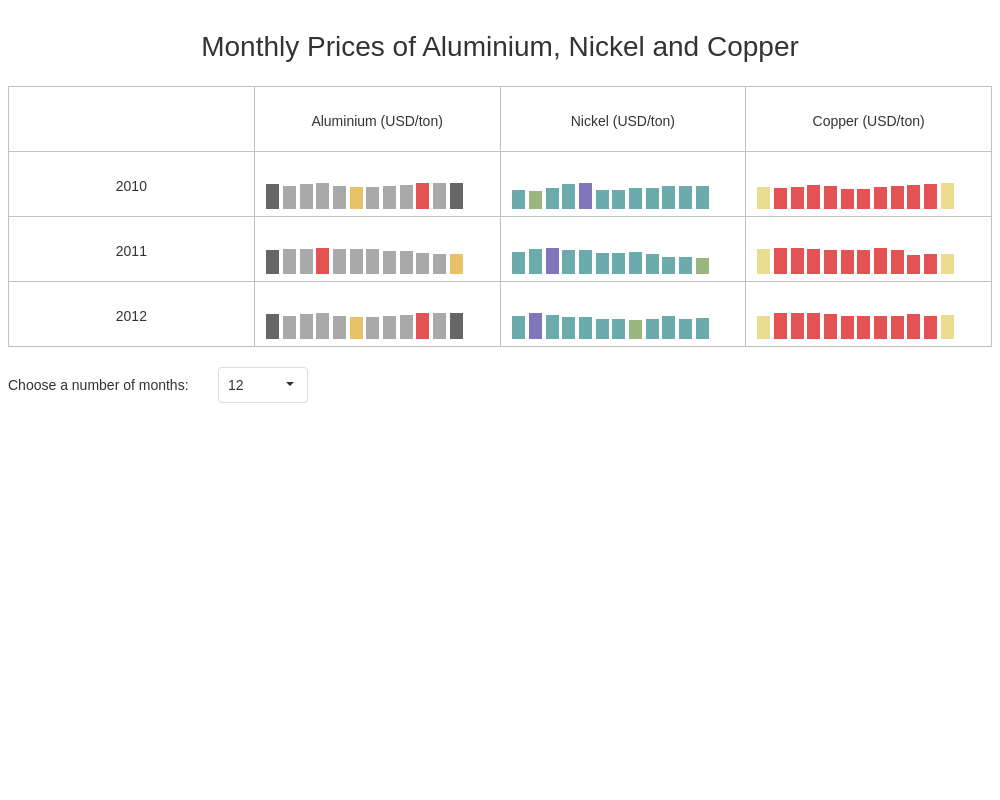
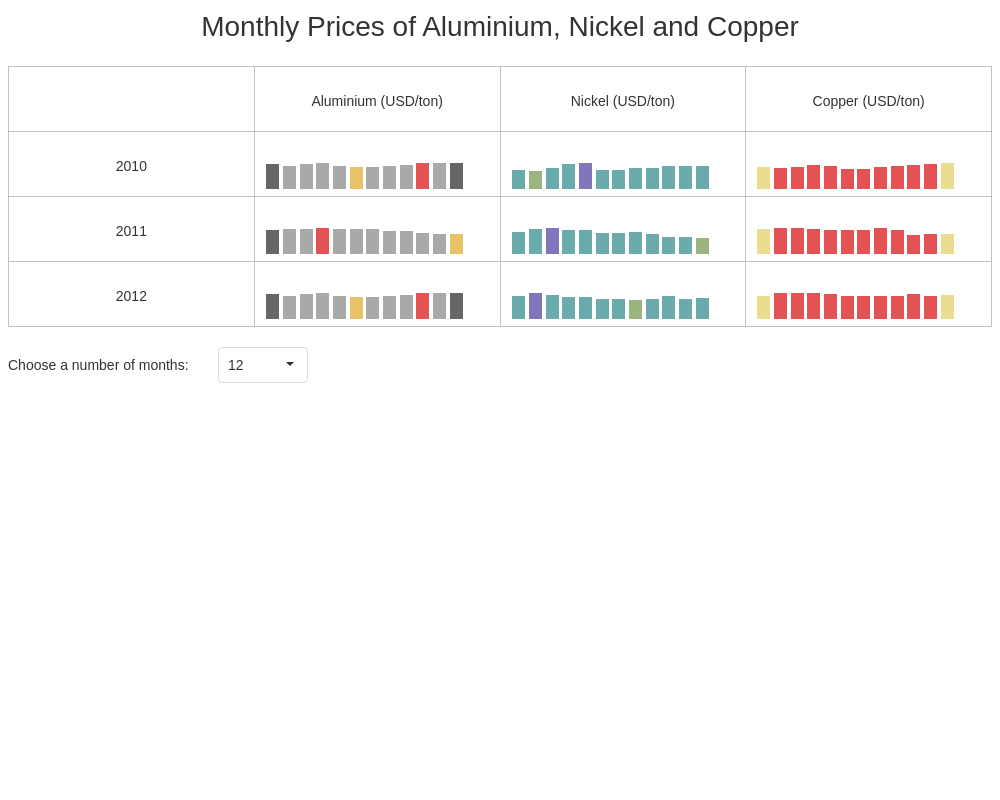
add margin-top: 0px property to charts-barsparklnes demos

diff --git a/JSDemos/Demos/Charts/BarSparklines/Vue/App.vue b/JSDemos/Demos/Charts/BarSparklines/Vue/App.vue
@@ -129,5 +129,6 @@ export default {
     font-size: 28px;
     text-align: center;
     margin-bottom: 20px;
+    margin-top: 0px;
 }
 </style>

diff --git a/JSDemos/Demos/Charts/BarSparklines/Angular/app/app.component.css b/JSDemos/Demos/Charts/BarSparklines/Angular/app/app.component.css
@@ -51,4 +51,5 @@
     font-size: 28px;
     text-align: center;
     margin-bottom: 20px;
+    margin-top: 0px;
 }

diff --git a/JSDemos/Demos/Charts/BarSparklines/AngularJS/styles.css b/JSDemos/Demos/Charts/BarSparklines/AngularJS/styles.css
@@ -51,4 +51,5 @@
     font-size: 28px;
     text-align: center;
     margin-bottom: 20px;
+    margin-top: 0px;
 }

diff --git a/JSDemos/Demos/Charts/BarSparklines/React/styles.css b/JSDemos/Demos/Charts/BarSparklines/React/styles.css
@@ -51,4 +51,5 @@
     font-size: 28px;
     text-align: center;
     margin-bottom: 20px;
+    margin-top: 0px;
 }

diff --git a/JSDemos/Demos/Charts/BarSparklines/jQuery/styles.css b/JSDemos/Demos/Charts/BarSparklines/jQuery/styles.css
@@ -51,4 +51,5 @@
     font-size: 28px;
     text-align: center;
     margin-bottom: 20px;
+    margin-top: 0px;
 }

diff --git a/MVCDemos/Content/DemosStyles/Charts/BarSparklines.css b/MVCDemos/Content/DemosStyles/Charts/BarSparklines.css
@@ -51,4 +51,5 @@
     font-size: 28px;
     text-align: center;
     margin-bottom: 20px;
+    margin-top: 0px;
 }

diff --git a/NetCoreDemos/wwwroot/css/DemosStyles/Charts/BarSparklines.css b/NetCoreDemos/wwwroot/css/DemosStyles/Charts/BarSparklines.css
@@ -51,4 +51,5 @@
     font-size: 28px;
     text-align: center;
     margin-bottom: 20px;
+    margin-top: 0px;
 }
